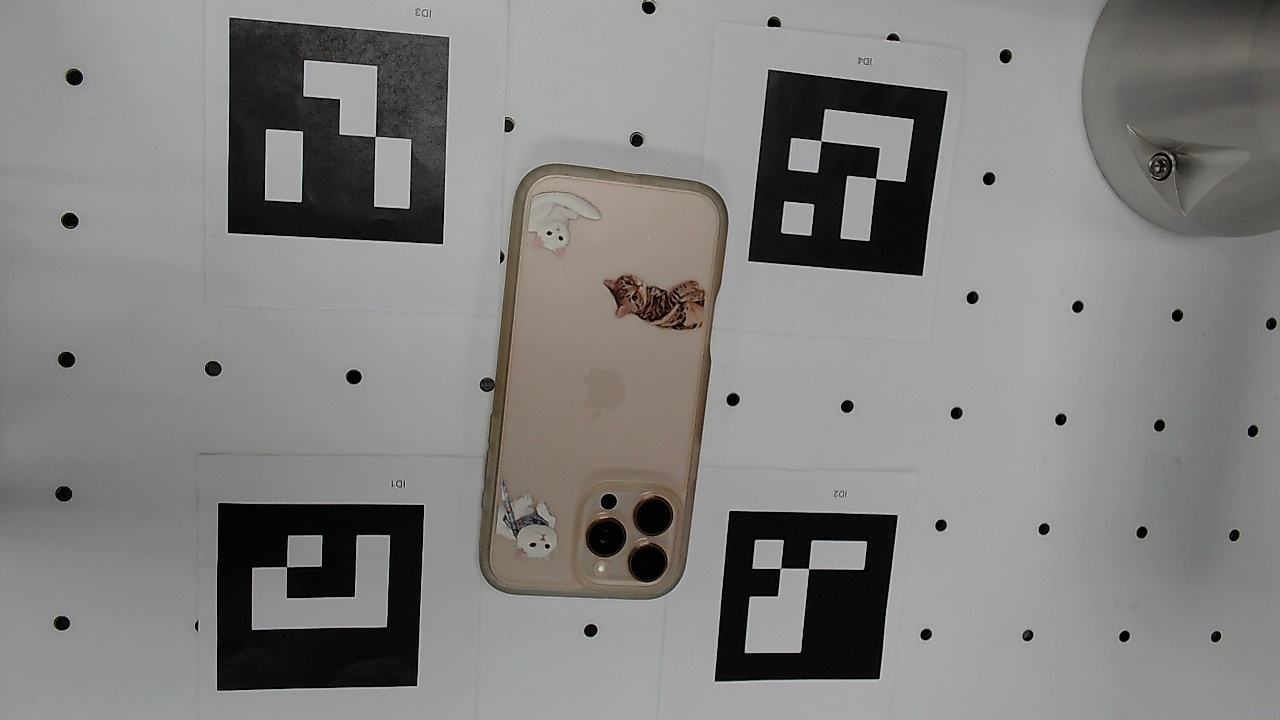
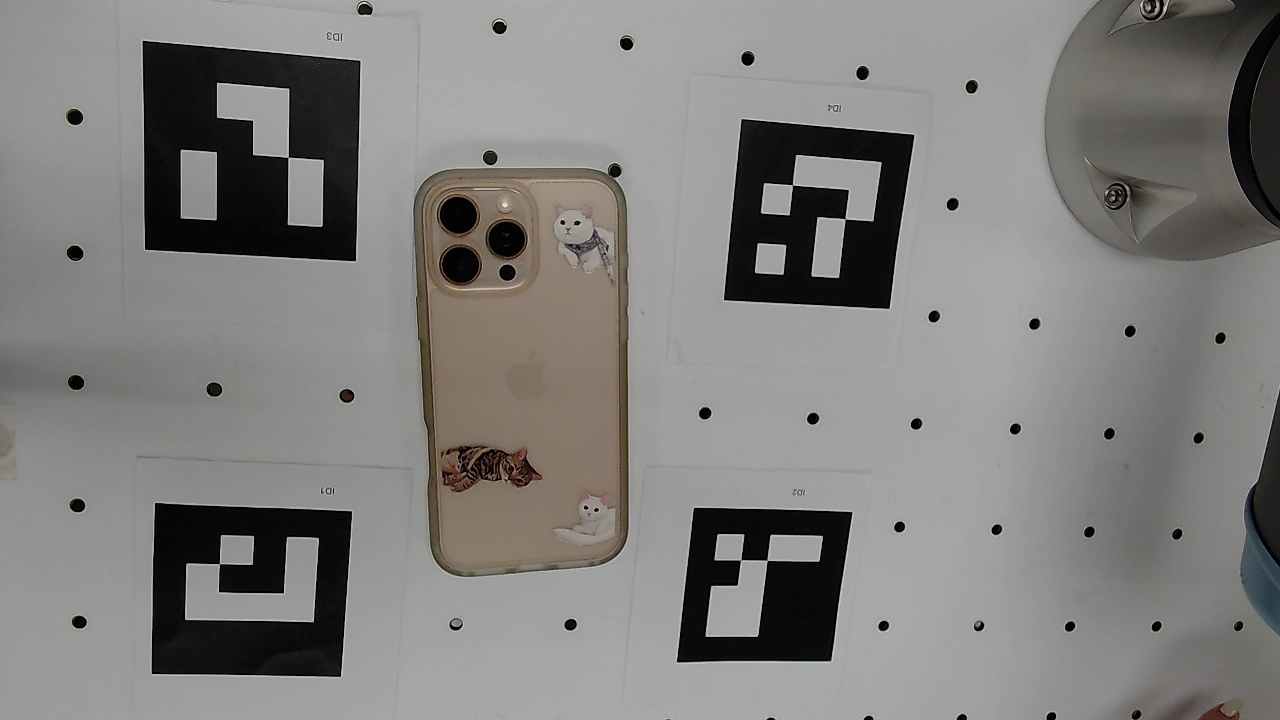
Update local changes

diff --git a/unity_project/Assets/Scripts/UIManager.cs b/unity_project/Assets/Scripts/UIManager.cs
@@ -8,6 +8,10 @@ public class UIManager : MonoBehaviour
     public UIDocument uiDocument;
     public JsonExecutor executor;
 
+    // 兩邊共用的資料夾（Unity / csharp_server 都指到這裡）
+    // 如果之後換電腦或換路徑，只要改這一行
+    private string SHARED_DIR => Application.streamingAssetsPath;
+
     private TextField inputField;
     private Button sendButton;
 
@@ -42,27 +46,54 @@ public class UIManager : MonoBehaviour
         container.Add(inputField);
         container.Add(sendButton);
         root.Add(container);
+
+        // 確保共享資料夾存在
+        if (!Directory.Exists(SHARED_DIR))
+        {
+            Directory.CreateDirectory(SHARED_DIR);
+            Debug.Log("已建立共享資料夾：" + SHARED_DIR);
+        }
     }
 
     void OnSendCommand()
     {
         string command = inputField.value;
-        if (string.IsNullOrEmpty(command)) return;
+        Debug.Log("按鈕被按下");
+        Debug.Log("輸入內容：" + command);
 
-        Debug.Log("使用者輸入：" + command);
+        if (string.IsNullOrWhiteSpace(command))
+        {
+            Debug.LogWarning("輸入是空的，所以沒有寫入");
+            return;
+        }
 
-        string inputPath = Path.Combine(Application.streamingAssetsPath, "user_input.txt");
-        File.WriteAllText(inputPath, command);
+        try
+        {
+            string inputPath = Path.Combine(Application.streamingAssetsPath, "user_input.txt");
 
-        StartCoroutine(WaitAndExecute());
+            Debug.Log("StreamingAssetsPath：" + Application.streamingAssetsPath);
+            Debug.Log("準備寫入：" + inputPath);
+
+            Directory.CreateDirectory(Application.streamingAssetsPath);
+
+            File.WriteAllText(inputPath, command);
+
+            Debug.Log("寫入後讀回：" + File.ReadAllText(inputPath));
+
+            StartCoroutine(WaitAndExecute());
+        }
+        catch (System.Exception ex)
+        {
+            Debug.LogError("寫入 user_input.txt 失敗：" + ex);
+        }
     }
 
     IEnumerator WaitAndExecute()
     {
-        string planPath = Path.Combine(Application.streamingAssetsPath, "robot_plan.json");
+        string planPath = Path.Combine(SHARED_DIR, "robot_plan.json");
         var lastWrite = File.Exists(planPath) ? File.GetLastWriteTime(planPath) : System.DateTime.MinValue;
 
-        // 等最多 30 秒讓 terminal LLM 產生新的 robot_plan.json
+        // 等最多 30 秒讓 csharp_server 產生新的 robot_plan.json
         float timeout = 30f;
         float waited = 0f;
 
@@ -79,6 +110,6 @@ public class UIManager : MonoBehaviour
             }
         }
 
-        Debug.LogWarning("等待 robot_plan.json 更新逾時");
+        Debug.LogWarning("等待 robot_plan.json 更新逾時（30 秒），請檢查 csharp_server 是否在跑");
     }
 }

diff --git a/unity_project/Assets/Scripts/JsonExecutor.cs b/unity_project/Assets/Scripts/JsonExecutor.cs
@@ -86,7 +86,7 @@ public class JsonExecutor : MonoBehaviour
 
     public void LoadAndExecute()
     {
-        string path = Path.Combine(Application.streamingAssetsPath, jsonFileName);
+        string path = Path.Combine(@"C:\Users\ASUS\LLM_RobotArm\shared", jsonFileName);
 
         if (!File.Exists(path))
         {